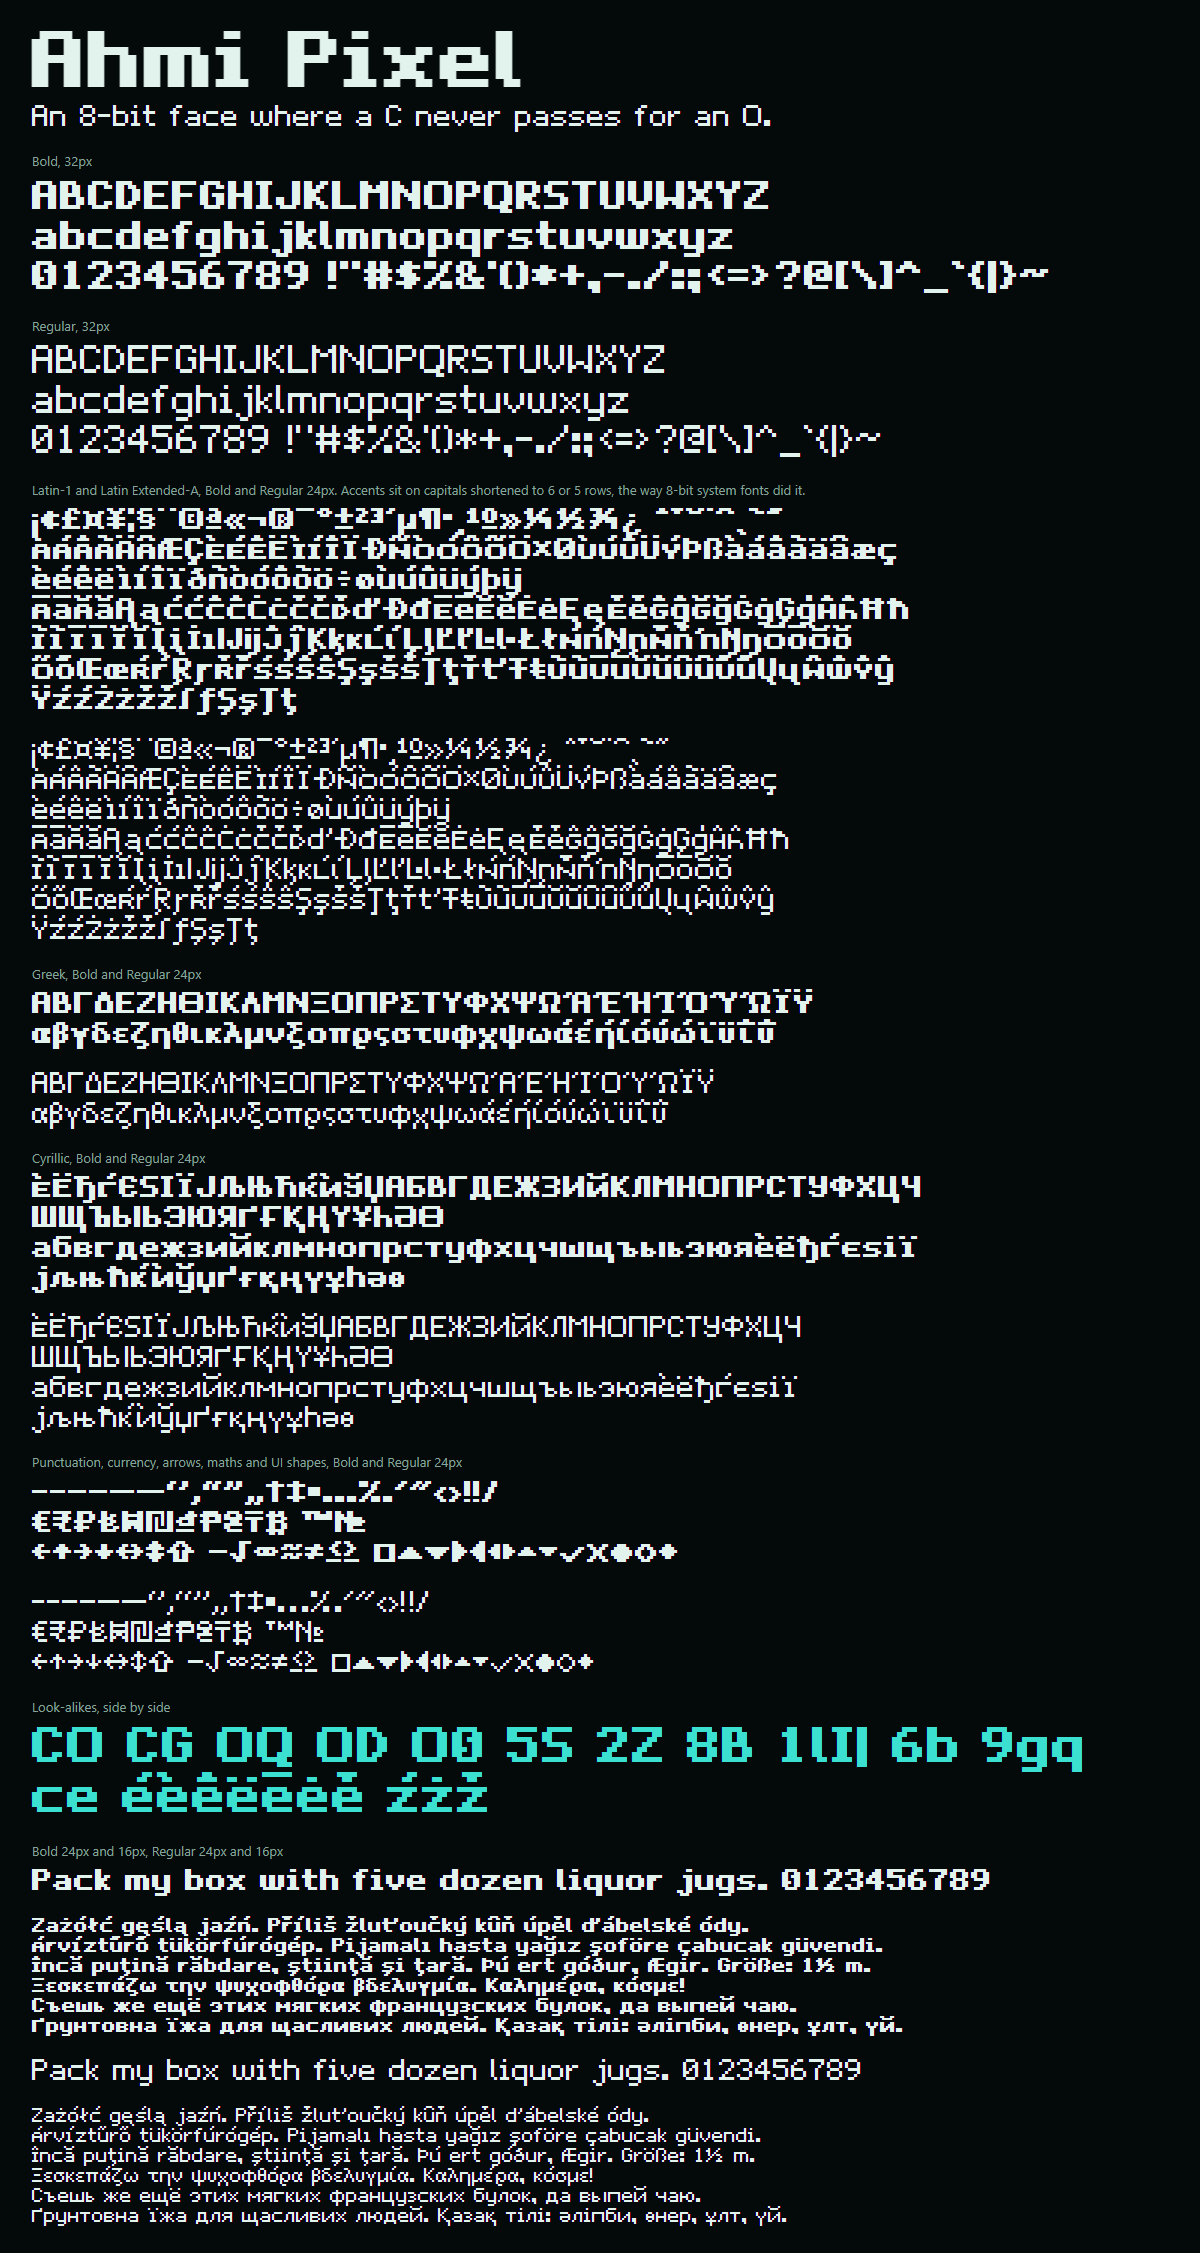
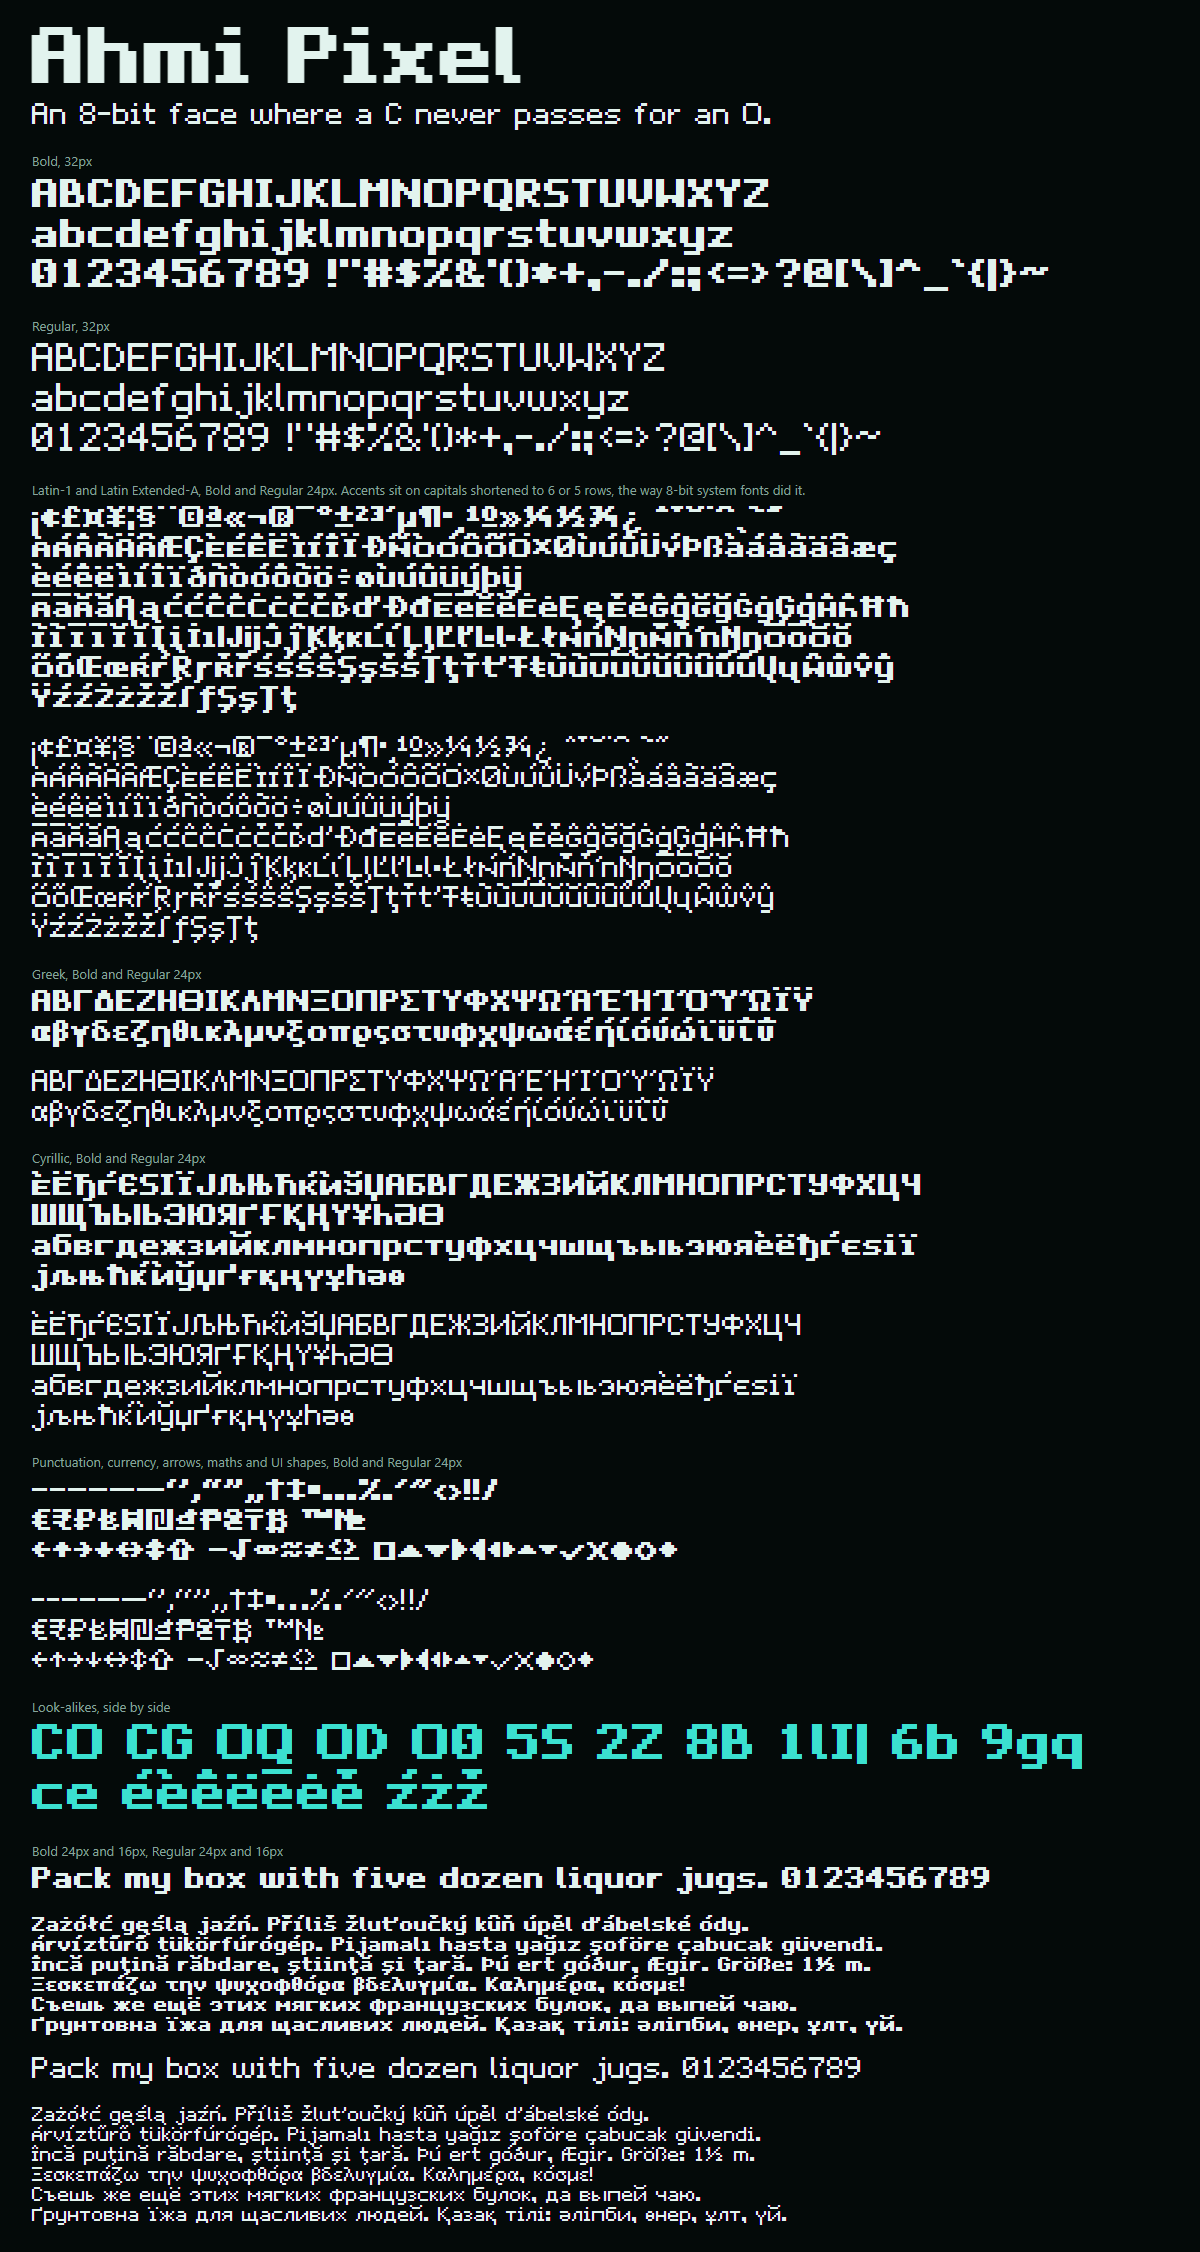
Keep the 1.000 line spacing; only usWin covers the accents
hhea and OS/2 typo ascender/descender/line gap stay 896/-256/0 as in
1.000, USE_TYPO_METRICS is set (OS/2 version 4), and usWinAscent/
usWinDescent are computed from the bounds of every glyph (1024/256).
Glyph drawings are unchanged. check.py verifies all of this in both
weights; README, CHANGELOG and specimen.png updated.

diff --git a/build.py b/build.py
@@ -19,7 +19,9 @@ builds the glyph from the base letter and a mark that is drawn once (see
 
 Metrics: one font pixel is 1/8 of the em, so text is pixel-sharp at any size
 that is a multiple of 8px (16, 24, 32, 40, 48, 64 ...). Capitals are 7 pixels
-tall; the 8th row of the em, above the capitals, holds accents.
+tall; the 8th row of the em, above the capitals, holds accents. Line spacing
+(hhea, OS/2 typo, USE_TYPO_METRICS) is kept as in 1.000: 7 pixels up, 2 down;
+only usWinAscent/usWinDescent grow to cover every glyph.
 """
 from __future__ import annotations
 
@@ -443,6 +445,23 @@ def outline(grid: Bitmap) -> list[list[tuple[int, int]]]:
     return contours
 
 
+LINE_ASCENT = CAP_ROWS * PX      # 896, as in 1.000
+LINE_DESCENT = DESC_ROWS * PX    # 256, as in 1.000
+LINE_GAP = 0
+USE_TYPO_METRICS = 0x80
+
+
+def win_bounds(weight: str) -> tuple[int, int]:
+    """usWinAscent/usWinDescent: the highest and lowest ink of any glyph."""
+    top, bottom = 0, 0
+    for _, grid in bitmaps(weight).values():
+        for r, row in enumerate(grid):
+            if "#" in row:
+                y = ROWS - DESC_ROWS - 1 - r      # pixel row, 0 = just above baseline
+                top, bottom = max(top, (y + 1) * PX), max(bottom, -y * PX)
+    return top, bottom
+
+
 def build(weight: str) -> Path:
     from fontTools.fontBuilder import FontBuilder
     from fontTools.pens.ttGlyphPen import TTGlyphPen
@@ -478,13 +497,18 @@ def build(weight: str) -> Path:
         cmap[cp] = name
         add(name, grid, advance(weight, cp))
 
-    ascent, descent = (TOP_ROWS + CAP_ROWS) * PX, DESC_ROWS * PX
+    # Line spacing stays as in 1.000 (hhea and typo: 7 rows up, 2 down, no
+    # gap; USE_TYPO_METRICS on). Only the Windows clipping box grows to the
+    # real bounds of every glyph, so accents in the 8th row are never cut
+    # off; in tightly set lines they may reach into the line above.
+    ascent, descent = LINE_ASCENT, LINE_DESCENT
+    win_ascent, win_descent = win_bounds(weight)
     fb = FontBuilder(UPM, isTTF=True)
     fb.setupGlyphOrder(order)
     fb.setupCharacterMap(cmap)
     fb.setupGlyf(glyphs)
     fb.setupHorizontalMetrics(metrics)
-    fb.setupHorizontalHeader(ascent=ascent, descent=-descent, lineGap=0)
+    fb.setupHorizontalHeader(ascent=ascent, descent=-descent, lineGap=LINE_GAP)
     fb.setupNameTable(
         {
             "familyName": FAMILY,
@@ -499,15 +523,16 @@ def build(weight: str) -> Path:
         }
     )
     fb.setupOS2(
+        version=4,
         sTypoAscender=ascent,
         sTypoDescender=-descent,
-        sTypoLineGap=0,
-        usWinAscent=ascent,
-        usWinDescent=descent,
+        sTypoLineGap=LINE_GAP,
+        usWinAscent=win_ascent,
+        usWinDescent=win_descent,
         sxHeight=5 * PX,
         sCapHeight=CAP_ROWS * PX,
         usWeightClass=700 if is_bold else 400,
-        fsSelection=0x20 if is_bold else 0x40,
+        fsSelection=(0x20 if is_bold else 0x40) | USE_TYPO_METRICS,
         achVendID="AHMI",
     )
     fb.setupPost(isFixedPitch=0)

diff --git a/check.py b/check.py
@@ -10,6 +10,9 @@ character is missing or could be mistaken for another one, in either weight:
   1. Coverage: every character in TARGET (below) is drawn, in Regular and
      Bold, and the built font files in fonts/ (if present) map all of them
      and carry the current version.
+     Their line metrics keep the 1.000 values (hhea and OS/2 typo ascender
+     896, descender -256, line gap 0, USE_TYPO_METRICS set) and
+     usWinAscent/usWinDescent cover every glyph's ink.
   2. Ink: every character has pixels except the spaces, which have none and
      the right widths (figure space = a digit, punctuation space = a period).
   3. Counters: the letters and digits in HOLES have the number of closed
@@ -32,7 +35,7 @@ import sys
 import unicodedata
 from itertools import combinations
 
-from build import OUT, VERSION, advance, bitmaps, composition, embolden
+from build import OUT, PX, ROWS, DESC_ROWS, VERSION, advance, bitmaps, composition, embolden
 
 # ---------------------------------------------------------------- coverage
 
@@ -192,6 +195,27 @@ def check_files(failures: list[str]) -> None:
             missing = TARGET - set(font.getBestCmap())
             if missing:
                 failures.append(f"{path.name} lacks {len(missing)} characters: run build.py")
+            hhea, os2 = font["hhea"], font["OS/2"]
+            line = {
+                "hhea ascender": (hhea.ascent, 896), "hhea descender": (hhea.descent, -256),
+                "hhea lineGap": (hhea.lineGap, 0), "sTypoAscender": (os2.sTypoAscender, 896),
+                "sTypoDescender": (os2.sTypoDescender, -256), "sTypoLineGap": (os2.sTypoLineGap, 0),
+            }
+            for what, (got, want) in line.items():
+                if got != want:
+                    failures.append(f"{path.name}: {what} is {got}, 1.000 had {want}")
+            if os2.version < 4 or not os2.fsSelection & 0x80:
+                failures.append(f"{path.name}: USE_TYPO_METRICS is not set")
+            gs = font.getGlyphSet()
+            from fontTools.pens.boundsPen import BoundsPen
+            hi, lo = 0, 0
+            for name in font.getGlyphOrder():
+                pen = BoundsPen(gs)
+                gs[name].draw(pen)
+                if pen.bounds:
+                    hi, lo = max(hi, pen.bounds[3]), min(lo, pen.bounds[1])
+            if os2.usWinAscent < hi or os2.usWinDescent < -lo:
+                failures.append(f"{path.name}: usWin {os2.usWinAscent}/{os2.usWinDescent} does not cover glyphs reaching {hi}/{lo}")
             version = font["name"].getDebugName(5)
             if version != f"Version {VERSION}":
                 failures.append(f"{path.name} says {version!r}, build.py says {VERSION}: run build.py")

diff --git a/CHANGELOG.md b/CHANGELOG.md
@@ -4,7 +4,8 @@
 
 - 583 characters per weight (was 109): all of Latin-1 and Latin Extended-A, Romanian Ș ș Ț ț and ƒ, spacing accents, modern Greek, Cyrillic for Russian, Ukrainian, Belarusian, Bulgarian, Serbian, Macedonian, Kazakh and Central Asian languages, general punctuation and spaces, currency signs, ™ №, arrows, maths, and the shapes the egui toolkit draws.
 - Accented letters are composed by `build.py` from a base letter and an accent drawn once in `glyphs/marks.txt`. Accented capitals are 6 or 5 pixels tall so the accent fits inside the em.
-- **Metrics change:** the ascent is now 8 pixels (1024 units, the full em) instead of 7, so accents above capitals stay clear of the line above. With `line-height: normal` lines are one font pixel taller than in 1.000 (10 pixels instead of 9). The 109 original glyphs are unchanged.
+- Line spacing is unchanged from 1.000: hhea and OS/2 typo ascender 896, descender -256, line gap 0, now with USE_TYPO_METRICS set. Only usWinAscent/usWinDescent grow, to 1024/256, so accents in the 8th row are never clipped on Windows; in tightly set lines they may reach into the line above. The 109 original glyphs are unchanged.
+- `check.py` checks that the line metrics keep the 1.000 values and that usWinAscent/usWinDescent cover every glyph.
 - The glyph source is split into several files in `glyphs/`.
 - `check.py` now verifies the full character list in both weights, that every non-space glyph has pixels and the spaces have the right widths, that no letter gains or loses a counter in Bold, and compares every pair of letters and digits in all scripts, with an explicit list of intended cross-script look-alikes (Latin A, Greek Α, Cyrillic А ...).
 - Specimen updated.

diff --git a/README.md b/README.md
@@ -35,7 +35,7 @@ Version 1.100 (on this branch). The last public release is [v1.0.0](https://gith
 h1 { font: 700 64px/1.1 "Ahmi Pixel", sans-serif; }
 ```
 
-One font pixel is 1/8 of the font size (capitals are 7 pixels, the 8th row above them holds accents, and descenders hang 2 below), so the letters are only pixel-sharp at sizes that are multiples of 8px: 16, 24, 32, 40, 48, 64 and so on. Other sizes work but look slightly soft.
+One font pixel is 1/8 of the font size (capitals are 7 pixels, the 8th row above them holds accents, and descenders hang 2 below). Line spacing is the same as in 1.000 (7 pixels up, 2 down, `USE_TYPO_METRICS` set), so accents above capitals can reach into the line above when lines are set tight; the Windows clipping box covers them. The letters are only pixel-sharp at sizes that are multiples of 8px: 16, 24, 32, 40, 48, 64 and so on. Other sizes work but look slightly soft.
 
 ## The two weights
 
